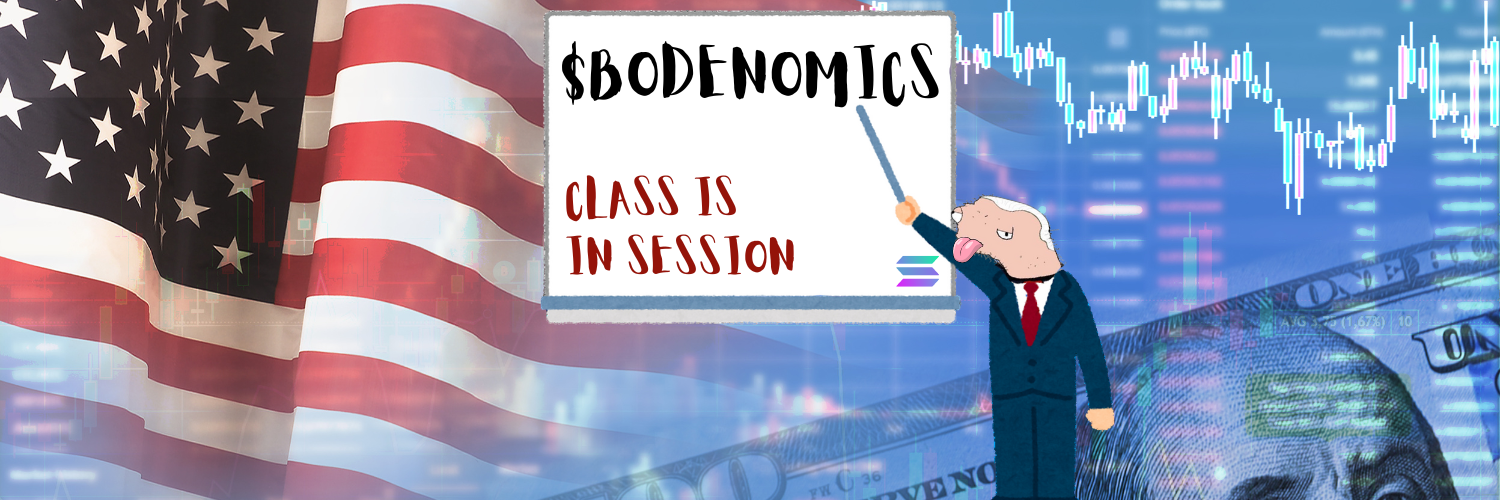
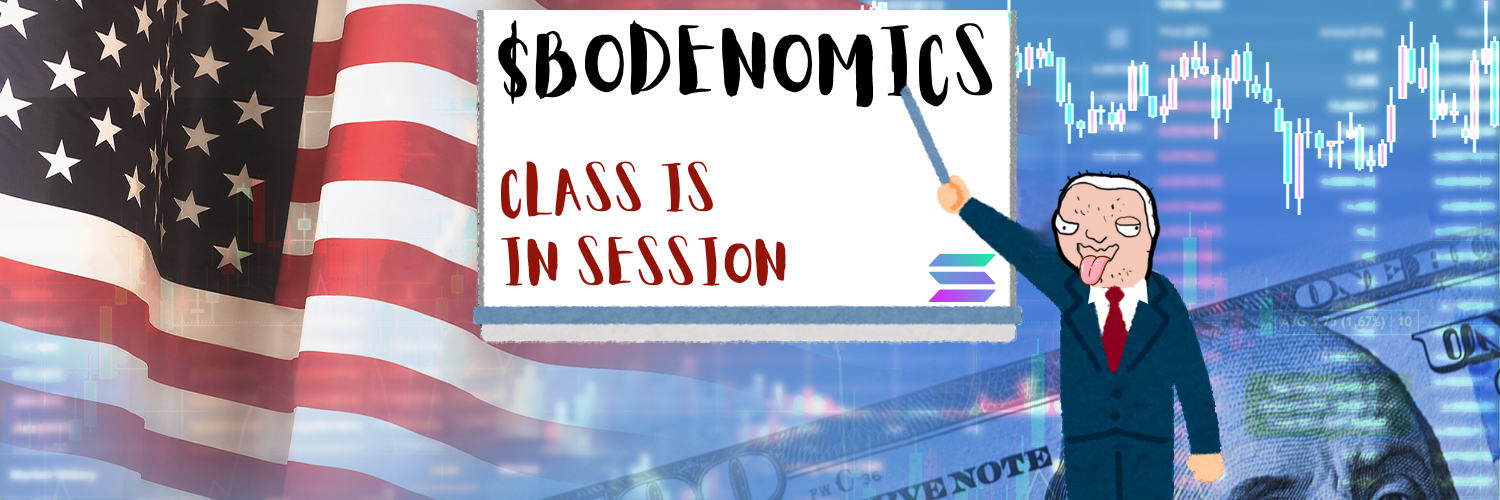
everything

Changed region(s): [[0.3067, 0.0, 0.828, 1.0]]

diff --git a/src/components/Hero.tsx b/src/components/Hero.tsx
@@ -67,10 +67,13 @@ export default function Hero() {
           display: 'flex',
           flexDirection: 'column',
           alignItems: 'center',
-          pt: { xs: 14, sm: 20 },
-          pb: { xs: 8, sm: 12 },
+          pt: { xs: 14, sm: 15 },
+          pb: { xs: 1, sm: 1 },
         }}
       >
+        <div style={{ textAlign: 'center' }}>
+          <img src={require('../images/boden.png')} alt={"boden"} style={{ height: "180px", width: "150px", margin: "0 auto" }} />
+        </div>
         <Stack
           spacing={2}
           alignItems="center"
@@ -119,6 +122,21 @@ export default function Hero() {
             )}
           </Stack>
         </Stack>
+        <br />
+        <br />
+        <div style={{ textAlign: 'center' }}>
+          <img 
+            src={require('../images/banner.png')} 
+            alt={"boden"} 
+            style={{ 
+              height: "auto", 
+              maxWidth: "100%",
+              width: "100%", 
+              maxHeight: "250px",
+              margin: "0 auto" 
+            }} 
+          />
+        </div>
       </Container>
     </Box>
   );

diff --git a/src/components/Testimonials.tsx b/src/components/Testimonials.tsx
@@ -1,13 +1,10 @@
 import * as React from 'react';
 import Card from '@mui/material/Card';
-import CardHeader from '@mui/material/CardHeader';
 import CardContent from '@mui/material/CardContent';
-import Avatar from '@mui/material/Avatar';
 import Typography from '@mui/material/Typography';
 import Box from '@mui/material/Box';
 import Container from '@mui/material/Container';
 import Grid from '@mui/material/Grid';
-import { useTheme } from '@mui/system';
 
 const userTestimonials = [
   {
@@ -33,8 +30,6 @@ const userTestimonials = [
 ];
 
 export default function Testimonials() {
-  const theme = useTheme();
-
   return (
     <Container
       id="testimonials"
@@ -61,7 +56,7 @@ export default function Testimonials() {
       </Box>
       <Grid container spacing={2}>
         {userTestimonials.map((testimonial,index) => (
-          <Grid item xs={6} sm={6} md={3} key={index} sx={{ display: 'flex' }}>
+          <Grid item xs={12} sm={6} md={3} key={index}>
             <Card
               sx={{
                 display: 'flex',
